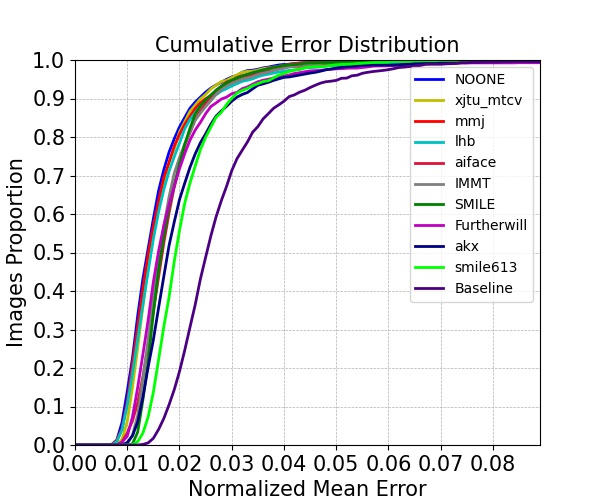
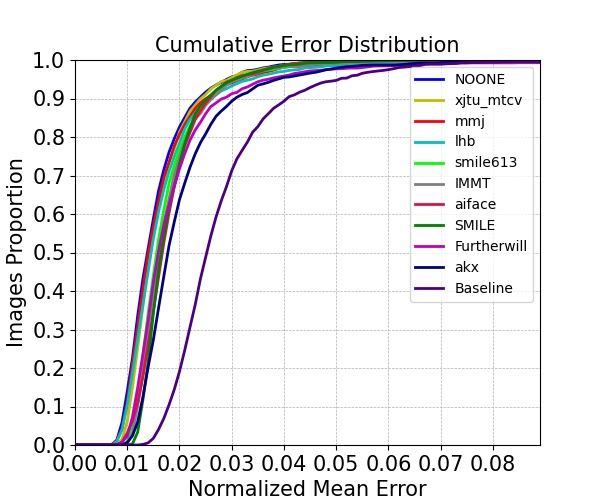
update leaderboard

Changed region(s): [[0.21, 0.12, 0.78, 0.9], [0.69, 0.39, 0.87, 0.54], [0.69, 0.3, 0.87, 0.36]]

diff --git a/leaderboard/index.html b/leaderboard/index.html
@@ -116,10 +116,26 @@
 <td align="center">Beijing University of Posts and Telecommunications</td>
 <td align="center">78.28</td>
 <td align="center">0.05</td>
-<td align="center">1.92</td>
+<td align="center">1.88</td>
 </tr>
 <tr>
 <td align="center"> 6</td>
+<td align="center">smile613</td>
+<td align="center">-</td>
+<td align="center">77.99</td>
+<td align="center">0.10</td>
+<td align="center">1.77</td>
+</tr>
+<tr>
+<td align="center"> 7</td>
+<td align="center">IMMT</td>
+<td align="center">-</td>
+<td align="center">77.39</td>
+<td align="center">0.25</td>
+<td align="center">1.78</td>
+</tr>
+<tr>
+<td align="center"> 8</td>
 <td align="center">aiface</td>
 <td align="center">-</td>
 <td align="center">77.36</td>
@@ -127,23 +143,15 @@
 <td align="center">1.73</td>
 </tr>
 <tr>
-<td align="center"> 7</td>
-<td align="center">IMMT</td>
-<td align="center">-</td>
-<td align="center">77.24</td>
-<td align="center">0.15</td>
-<td align="center">1.81</td>
-</tr>
-<tr>
-<td align="center"> 8</td>
+<td align="center"> 9</td>
 <td align="center">Sam Sung Lui</td>
 <td align="center">Sertis</td>
 <td align="center">77.16</td>
 <td align="center">0.50</td>
-<td align="center">1.91</td>
+<td align="center">1.88</td>
 </tr>
 <tr>
-<td align="center"> 9</td>
+<td align="center"> 10</td>
 <td align="center">SMILE</td>
 <td align="center">Xi’an Jiaotong University</td>
 <td align="center">77.12</td>
@@ -151,7 +159,7 @@
 <td align="center">1.68</td>
 </tr>
 <tr>
-<td align="center"> 10</td>
+<td align="center"> 11</td>
 <td align="center">Furtherwill</td>
 <td align="center">Southeast University</td>
 <td align="center">76.40</td>
@@ -159,7 +167,7 @@
 <td align="center">1.72</td>
 </tr>
 <tr>
-<td align="center"> 11</td>
+<td align="center"> 12</td>
 <td align="center">akx</td>
 <td align="center">Imperial-Vision Technology</td>
 <td align="center">74.37</td>
@@ -167,20 +175,12 @@
 <td align="center">1.77</td>
 </tr>
 <tr>
-<td align="center"> 12</td>
-<td align="center">smile613</td>
-<td align="center">-</td>
-<td align="center">73.39</td>
-<td align="center">0.05</td>
-<td align="center">1.81</td>
-</tr>
-<tr>
 <td align="center"> 13</td>
 <td align="center">sgv</td>
 <td align="center">-</td>
 <td align="center">70.79</td>
 <td align="center">1.80</td>
-<td align="center">1.95</td>
+<td align="center">1.92</td>
 </tr>
 <tr>
 <td align="center"> 14</td>
@@ -188,7 +188,7 @@
 <td align="center">HUST</td>
 <td align="center">62.49</td>
 <td align="center">2.65</td>
-<td align="center">1.93</td>
+<td align="center">1.90</td>
 </tr>
 <tr>
 <td align="center"></td>
